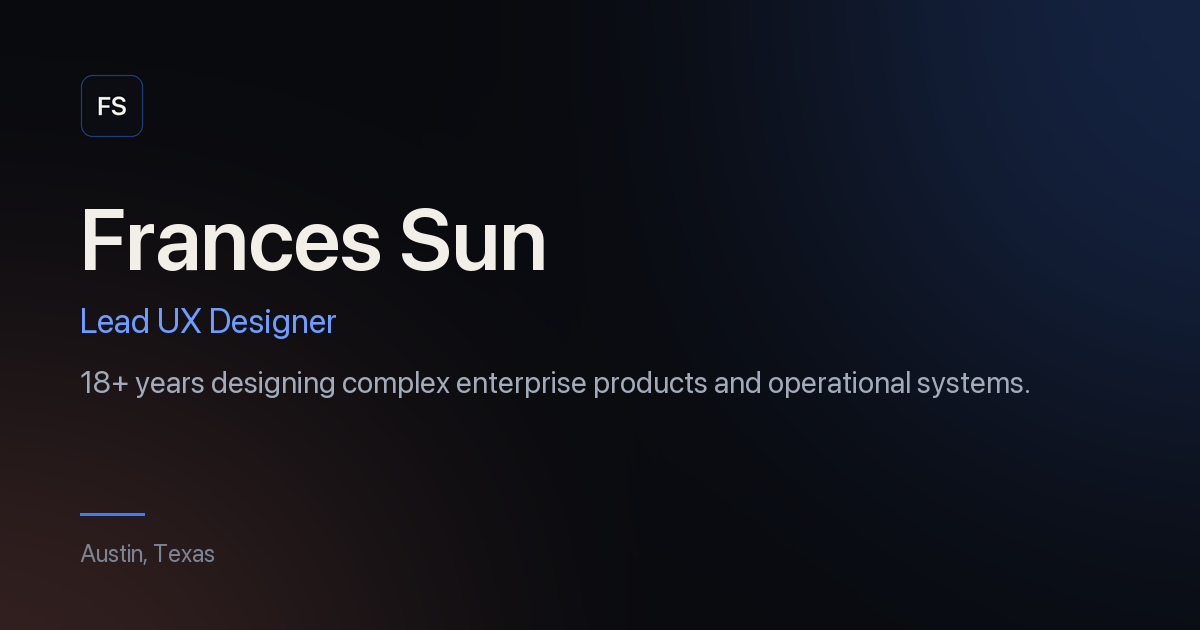
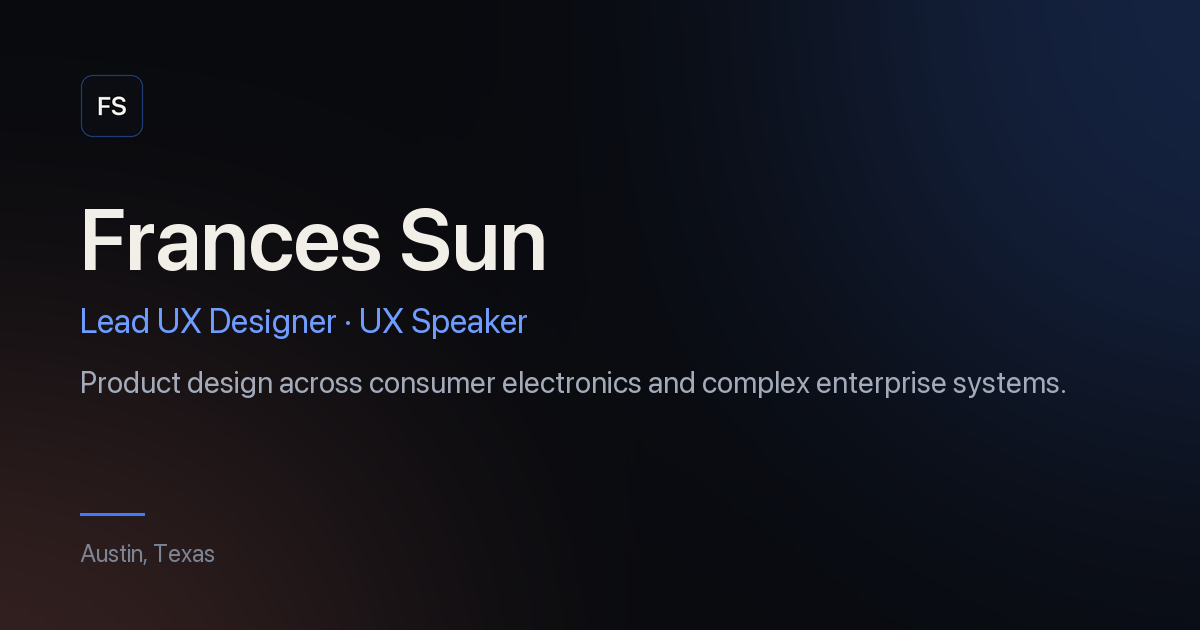
Refine homepage branding and speaking flow

Changed region(s): [[0.0617, 0.573, 0.8942, 0.6333], [0.3083, 0.4825, 0.4317, 0.5429]]

diff --git a/src/data/site.ts b/src/data/site.ts
@@ -20,9 +20,14 @@ export const person = {
   name: 'Frances Sun',
   initials: 'FS',
   role: 'Lead UX Designer',
-  statement: '18+ years designing enterprise software, complex workflows, and operational systems.',
+  /** Homepage role line only. jobTitle and the About page stay on `role`. */
+  heroRole: 'Lead UX Designer · UX Speaker',
+  statement: 'Product design across consumer electronics and complex enterprise systems.',
+  /** Schema description. Design first, then speaking. Not the hero line. */
+  description:
+    'Lead UX Designer with experience across consumer electronics and enterprise software, and a UX speaker on complex workflows and systems thinking.',
   supporting:
-    'I turn complex business rules and fragmented workflows into clear, scalable product experiences through systems thinking, interaction design, and hands-on prototyping.',
+    'I turn complex products and workflows into clear, scalable experiences through systems thinking, interaction design, and hands-on prototyping.',
   location: 'Based in Austin, Texas.',
   relocation: 'Open to relocation for the right opportunity.',
   locality: 'Austin',

diff --git a/scripts/generate-brand-assets.py b/scripts/generate-brand-assets.py
@@ -130,9 +130,9 @@ def build_og_card():
     meta_font = load_font(24, "regular")
 
     draw.text((left, 186), "Frances Sun", font=name_font, fill=TEXT)
-    draw.text((left, 300), "Lead UX Designer", font=role_font, fill=(111, 156, 255))
+    draw.text((left, 300), "Lead UX Designer · UX Speaker", font=role_font, fill=(111, 156, 255))
 
-    statement = "18+ years designing complex enterprise products and operational systems."
+    statement = "Product design across consumer electronics and complex enterprise systems."
     y = 364
     for line in wrap(draw, statement, statement_font, width - left * 2 - 40):
         draw.text((left, y), line, font=statement_font, fill=SECONDARY)
